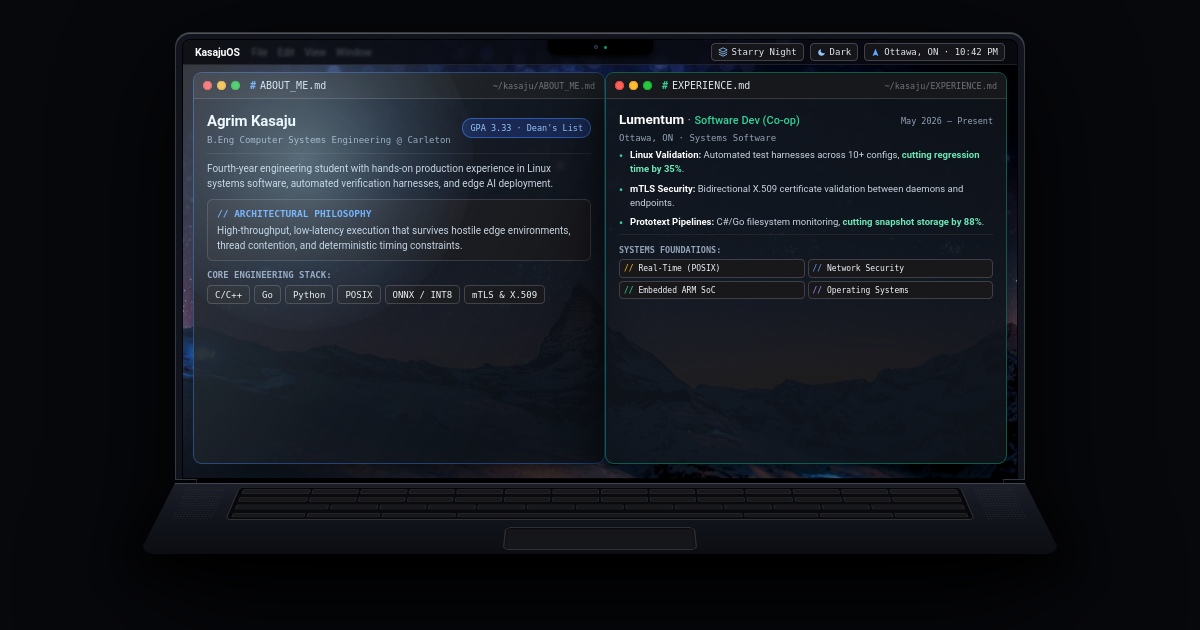
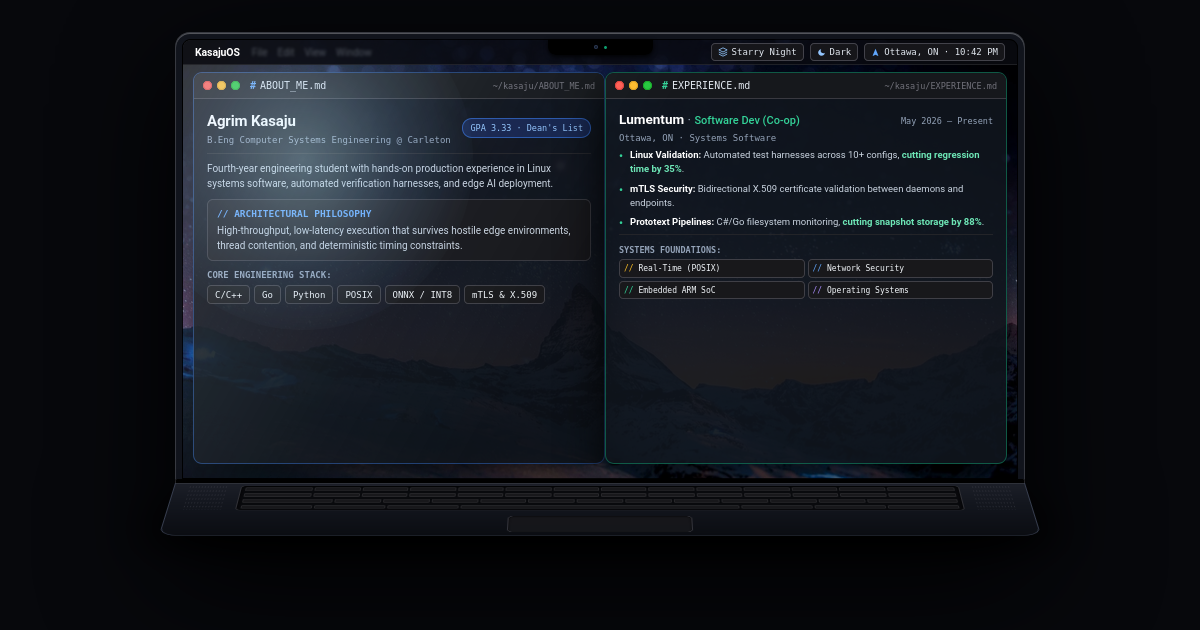
fix(ui): align MacBook keyboard base seamlessly with display width and calibrate 3D perspective

Changed region(s): [[0.2158, 0.754, 0.8017, 0.7841], [0.4008, 0.8143, 0.5858, 0.8746], [0.1233, 0.7841, 0.1542, 0.8143]]

diff --git a/src/MacbookShowcase.jsx b/src/MacbookShowcase.jsx
@@ -839,23 +839,23 @@ export const MacbookShowcase = ({
             </div>
           </div>
 
-          {/* --- MACBOOK PRO LOWER UNIBODY BASE DECK (Authentic Apple Proportions & 3D Perspective) --- */}
+          {/* --- MACBOOK PRO LOWER UNIBODY BASE DECK (Authentic Apple Proportions & Seamless Edge Alignment) --- */}
           <div
             className="relative w-full z-10 -mt-1"
             style={{
-              perspective: '1400px',
-              perspectiveOrigin: '50% 10%'
+              perspective: '2800px',
+              perspectiveOrigin: '50% 0%'
             }}
           >
-            {/* Rear Cylindrical Hinge Barrel */}
-            <div className="mx-auto w-[96%] h-2 sm:h-2.5 bg-black border-x border-zinc-800 rounded-t-sm shadow-md"></div>
+            {/* Rear Cylindrical Hinge Barrel (Matches 100% Display Lid Width) */}
+            <div className="w-full h-2 sm:h-2.5 bg-black border-x border-zinc-800 rounded-t-sm shadow-md"></div>
 
-            {/* Base Chassis (Extends Forward in 3D Perspective) */}
+            {/* Base Chassis (Extends Forward with Natural, Proportionate 3D Depth) */}
             <div
-              className="relative w-[96%] mx-auto rounded-b-2xl sm:rounded-b-3xl border transition-all duration-700 overflow-hidden"
+              className="relative w-full rounded-b-2xl sm:rounded-b-3xl border border-t-0 transition-all duration-700 overflow-hidden"
               style={{
                 transformOrigin: 'top center',
-                transform: 'rotateX(58deg)',
+                transform: 'rotateX(64deg)',
                 transformStyle: 'preserve-3d',
                 background: isDark
                   ? 'linear-gradient(180deg, #1c1f28 0%, #13161e 40%, #0b0d12 100%)'
@@ -939,7 +939,7 @@ export const MacbookShowcase = ({
             </div>
 
             {/* Soft Ambient Desk Contact Shadow (Blends Seamlessly with Any Background & Theme) */}
-            <div className="relative mx-auto w-[96%] pointer-events-none -mt-16 sm:-mt-20 z-0">
+            <div className="relative mx-auto w-[96%] pointer-events-none -mt-20 sm:-mt-24 z-0">
               <div
                 className="mx-auto w-[92%] h-10 rounded-full transition-all duration-700"
                 style={{

diff --git a/scripts/generate-og-image.py b/scripts/generate-og-image.py
@@ -376,11 +376,11 @@ HTML_TEMPLATE = f"""<!DOCTYPE html>
     width: 100%;
     z-index: 5;
     margin-top: -1px;
-    perspective: 1200px;
-    perspective-origin: 50% 10%;
+    perspective: 2800px;
+    perspective-origin: 50% 0%;
   }}
   .hinge-barrel {{
-    width: 95%;
+    width: 100%;
     height: 4px;
     margin: 0 auto;
     background: #000000;
@@ -392,10 +392,11 @@ HTML_TEMPLATE = f"""<!DOCTYPE html>
     width: 100%;
     height: 115px;
     background: linear-gradient(180deg, #1c1f28 0%, #13161e 40%, #0b0d12 100%);
-    border-top: 1px solid #373e4f;
+    border: 1px solid #373e4f;
+    border-top: none;
     border-radius: 0 0 16px 16px;
     transform-origin: top center;
-    transform: rotateX(55deg);
+    transform: rotateX(64deg);
     transform-style: preserve-3d;
     box-shadow: 0 30px 60px -5px rgba(0,0,0,0.98), inset 0 1px 0 rgba(255,255,255,0.22);
     padding: 6px 14px;
